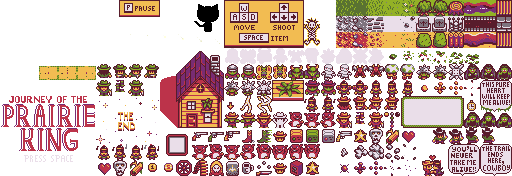
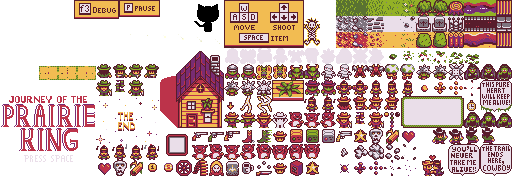
Debug Instruction Box - Sprite & Implementation

Changed region(s): [[0.125, 0.0, 0.25, 0.1136]]

diff --git a/src/gameplay/PrairieKing.cpp b/src/gameplay/PrairieKing.cpp
@@ -2855,8 +2855,9 @@ void PrairieKing::Draw()
 
     if (m_betweenWaveTimer > 0 && m_whichWave == 0 && !m_scrollingMap)
     {
-        Vector2 pos = {GetScreenWidth() / 2.5, GetScreenHeight() - 144 - 3};
-        Vector2 pos2 = {GetScreenWidth() / 1.89, GetScreenHeight() - 97 - 3};
+        Vector2 pos = {GetScreenWidth() / 2.6, GetScreenHeight() - 138 - 3};
+        Vector2 pos2 = {GetScreenWidth() / 1.89, GetScreenHeight() - 138 - 3};
+        Vector2 pos3 = { GetScreenWidth() / 1.89, GetScreenHeight() - 81 - 3 };
 
         // Drawing controls instruction box
 
@@ -2875,6 +2876,16 @@ void PrairieKing::Draw()
             Rectangle{119, 0, 41, 17},
             Rectangle{pos2.x, pos2.y, 150, 54},
             Vector2{0, 0},
+            0.0f,
+            WHITE);
+
+        // Drawing debug instruction box
+
+        DrawTexturePro(
+            GetTexture("cursors"),
+            Rectangle{ 74, 0, 45, 19 },
+            Rectangle{ pos3.x, pos3.y, 151, 55 },
+            Vector2{ 0, 0 },
             0.0f,
             WHITE);
     }
